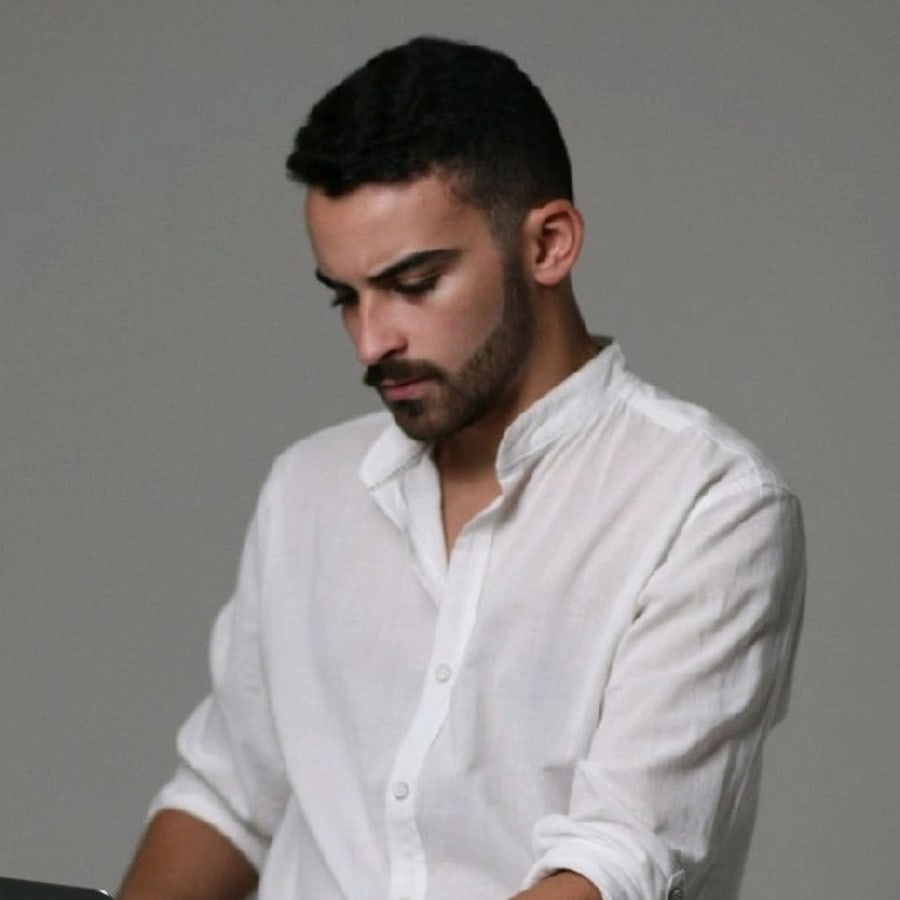
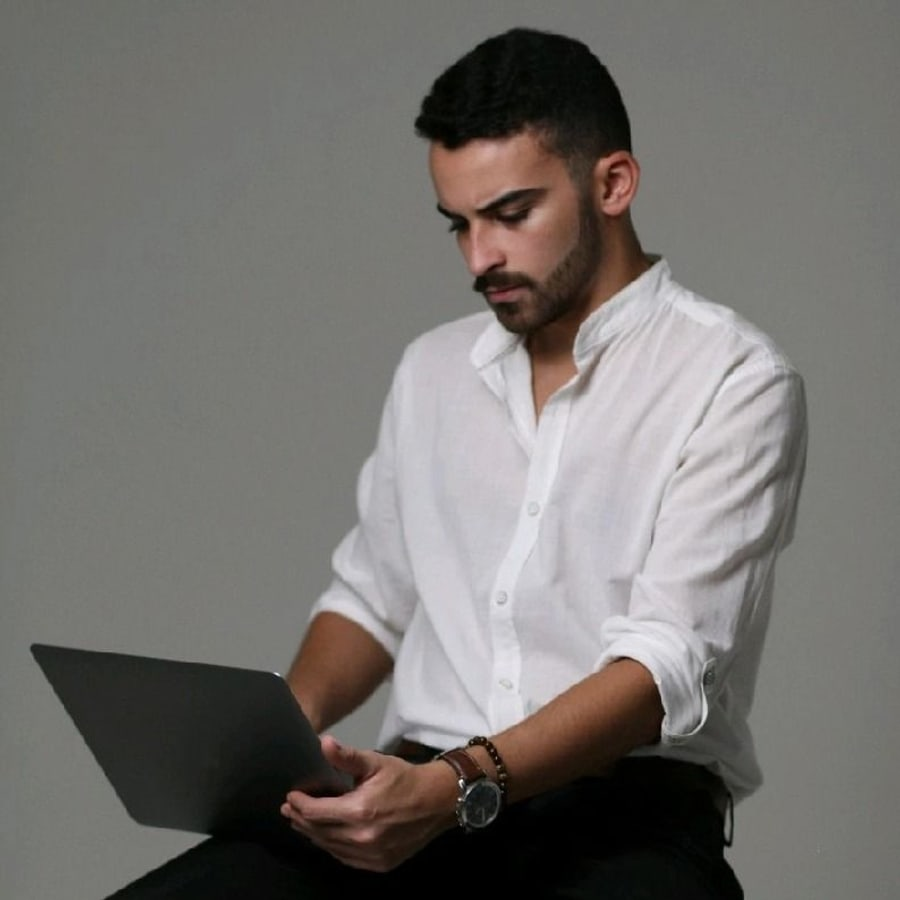
seo: imagens da busca com o rosto e o notebook, nas tres proporcoes

diff --git a/scripts/google-images.ts b/scripts/google-images.ts
@@ -5,7 +5,7 @@ import sharp from 'sharp'
 
 /**
  * Gera as imagens que o Google usa na busca: o ícone do site (favicon, em múltiplos de 48 px) e as imagens da
- * pessoa nas proporções 1:1, 4:3 e 16:9, sem texto, para o recorte quadrado da miniatura mostrar o rosto.
+ * pessoa nas proporções 1:1, 4:3 e 16:9, sem texto, para o recorte quadrado da miniatura mostrar o rosto e o notebook.
  * O banner de compartilhamento (`npm run banner`) continua sendo o `og:image` de WhatsApp e LinkedIn.
  *
  * Uso: npm run google-images -- <foto.jpg>
@@ -18,11 +18,13 @@ if (!source) throw new Error('Informe a foto de origem: npm run google-images --
 /** Rosto com o cabelo e a barba inteiros, para o ícone pequeno ainda ser reconhecível. */
 const FACE = { left: 275, top: 15, width: 370, height: 370 }
 
-/** Cabeça e tronco, centralizados no recorte (a miniatura do Google corta o centro). */
+/** A foto inteira (rosto e notebook). As proporções mais largas estendem as laterais com o cinza liso do fundo. */
+const PHOTO = { left: 0, top: 0, width: 794, height: 794 }
+
 const FRAMES = {
-  'google-1x1.jpg': { crop: { left: 175, top: 0, width: 600, height: 600 }, output: { width: 900, height: 900 } },
-  'google-4x3.jpg': { crop: { left: 0, top: 0, width: 794, height: 595 }, output: { width: 1200, height: 900 } },
-  'google-16x9.jpg': { crop: { left: 0, top: 0, width: 794, height: 447 }, output: { width: 1200, height: 675 } },
+  'google-1x1.jpg': { aspect: 1, output: { width: 900, height: 900 } },
+  'google-4x3.jpg': { aspect: 4 / 3, output: { width: 1200, height: 900 } },
+  'google-16x9.jpg': { aspect: 16 / 9, output: { width: 1200, height: 675 } },
 } as const
 
 const background = { r: 20, g: 21, b: 22, alpha: 1 }
@@ -53,7 +55,14 @@ images.forEach((image, index) => {
 })
 writeFileSync(join(publicDirectory, 'favicon.ico'), Buffer.concat([header, ...images]))
 
-for (const [file, { crop, output }] of Object.entries(FRAMES)) {
-  await sharp(source).rotate().extract(crop).resize(output.width, output.height, { fit: 'cover' }).jpeg({ quality: 86, mozjpeg: true }).toFile(join(publicDirectory, file))
+const photo = await sharp(source).rotate().extract(PHOTO).toBuffer()
+for (const [file, { aspect, output }] of Object.entries(FRAMES)) {
+  const extra = Math.max(0, Math.round((PHOTO.height * aspect - PHOTO.width) / 2))
+  // O sharp aplica `extend` depois de `resize`; por isso a foto estendida vira um buffer antes de ser redimensionada.
+  const widened = await sharp(photo).extend({ left: extra, right: extra, extendWith: 'copy' }).toBuffer()
+  await sharp(widened)
+    .resize(output.width, output.height, { fit: 'cover' })
+    .jpeg({ quality: 86, mozjpeg: true })
+    .toFile(join(publicDirectory, file))
 }
 console.log('favicon.ico, favicon.png, favicon-96.png, favicon-192.png, apple-touch-icon.png e google-*.jpg gerados em public/')
